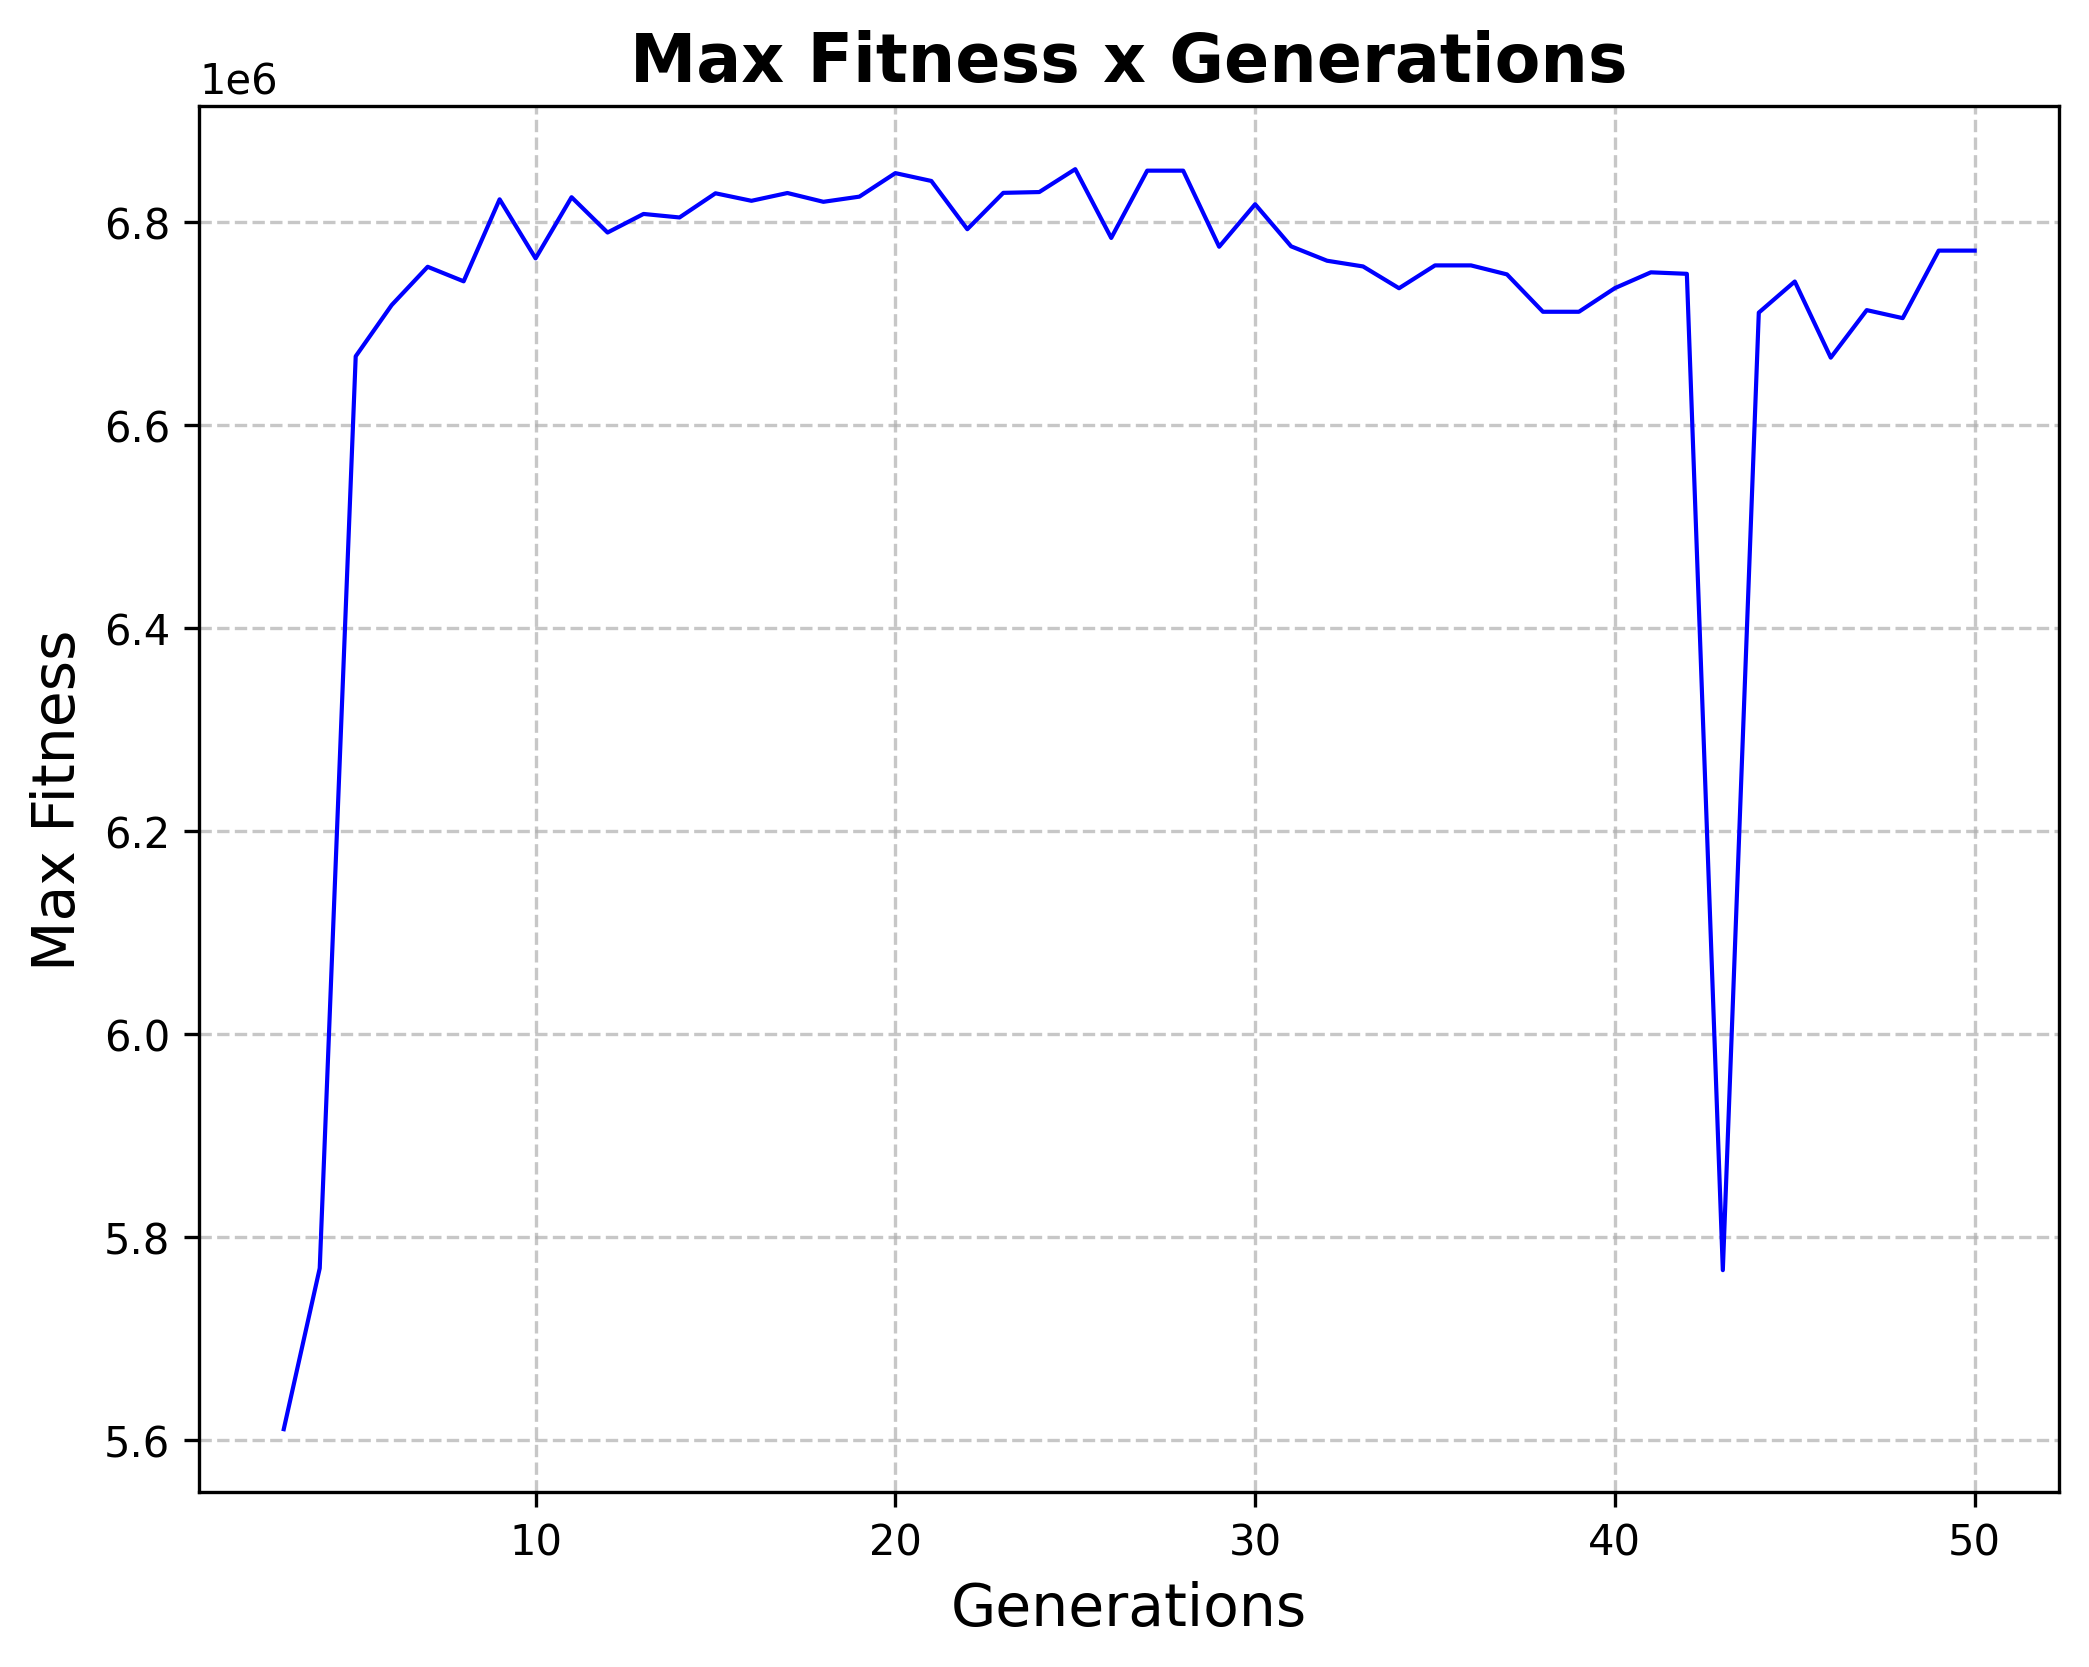
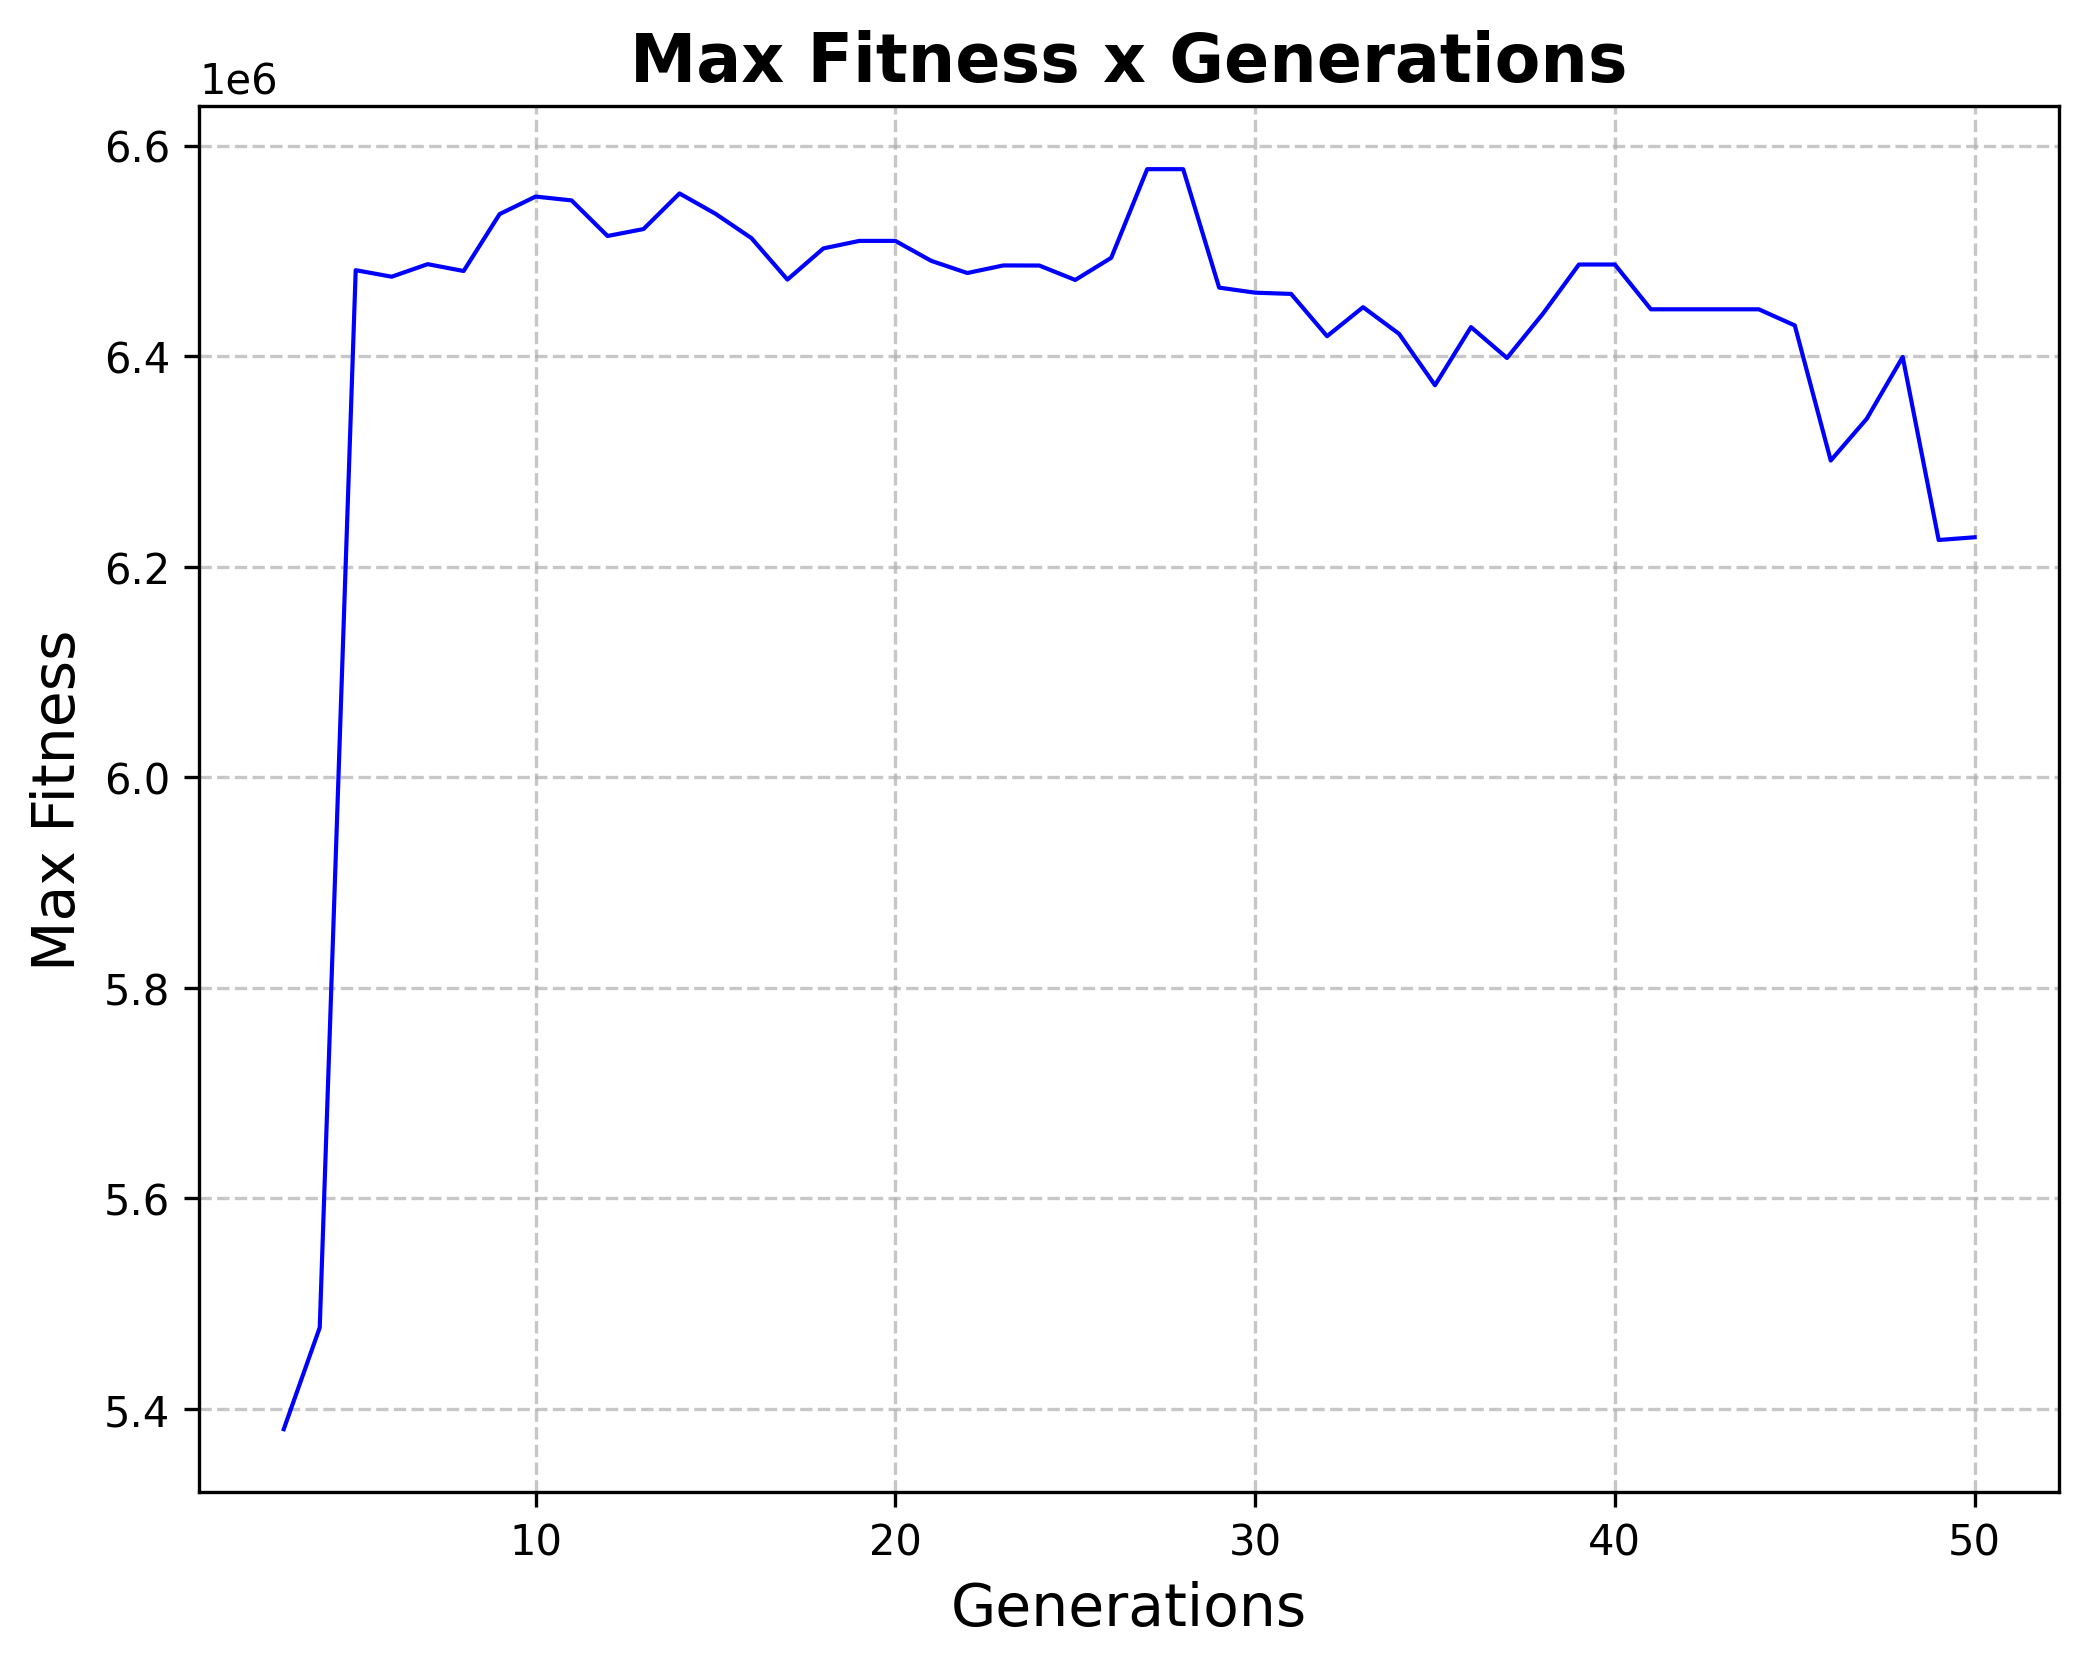
teste com a rosa dos ventos do LAIA

diff --git a/wind_farm_GA_LAIA_INEP.py b/wind_farm_GA_LAIA_INEP.py
@@ -31,7 +31,7 @@ def create_individual_from_coordinates(coords):
     return individual
 
 # Carregando coordenadas iniciais
-initial_coordinates, _, _ = getTurbLocYAML('iea37-teste_LAIA_60_n_otimizado.yaml')
+initial_coordinates, _, _ = getTurbLocYAML('coordenadas_dos_testes/iea37-teste_LAIA_60_n_otimizado.yaml')
 toolbox.register("individual", create_individual_from_coordinates, coords=initial_coordinates.tolist())
 toolbox.register("population", tools.initRepeat, list, toolbox.individual)
 
@@ -54,9 +54,9 @@ def enforce_polygons(individual):
 # Função de avaliação
 def evaluate(individual):
     # Carregando os dados dos arquivos YAML
-    turb_coords, fname_turb, fname_wr = getTurbLocYAML("iea37-teste_LAIA_60_n_otimizado.yaml")
+    turb_coords, fname_turb, fname_wr = getTurbLocYAML("coordenadas_dos_testes/iea37-teste_LAIA_60_n_otimizado.yaml")
     turb_ci, turb_co, rated_ws, rated_pwr, turb_diam = getTurbAtrbtYAML("iea37-15mw.yaml")
-    wind_dir, wind_freq, wind_speed = getWindRoseYAML("iea37-windrose.yaml")
+    wind_dir, wind_freq, wind_speed = getWindRoseYAML("iea37-windrose_LAIA.yaml")
 
     # Convertendo o indivíduo para coordenadas de turbinas
     turb_coords = np.array(individual).reshape((IND_SIZE, 2))
